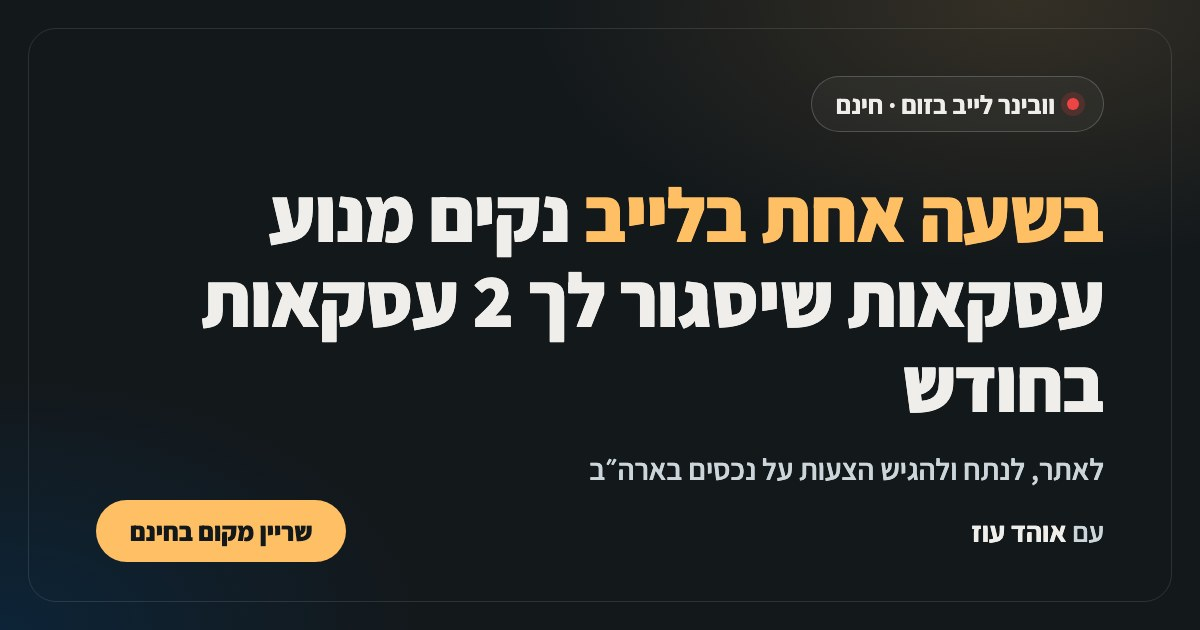
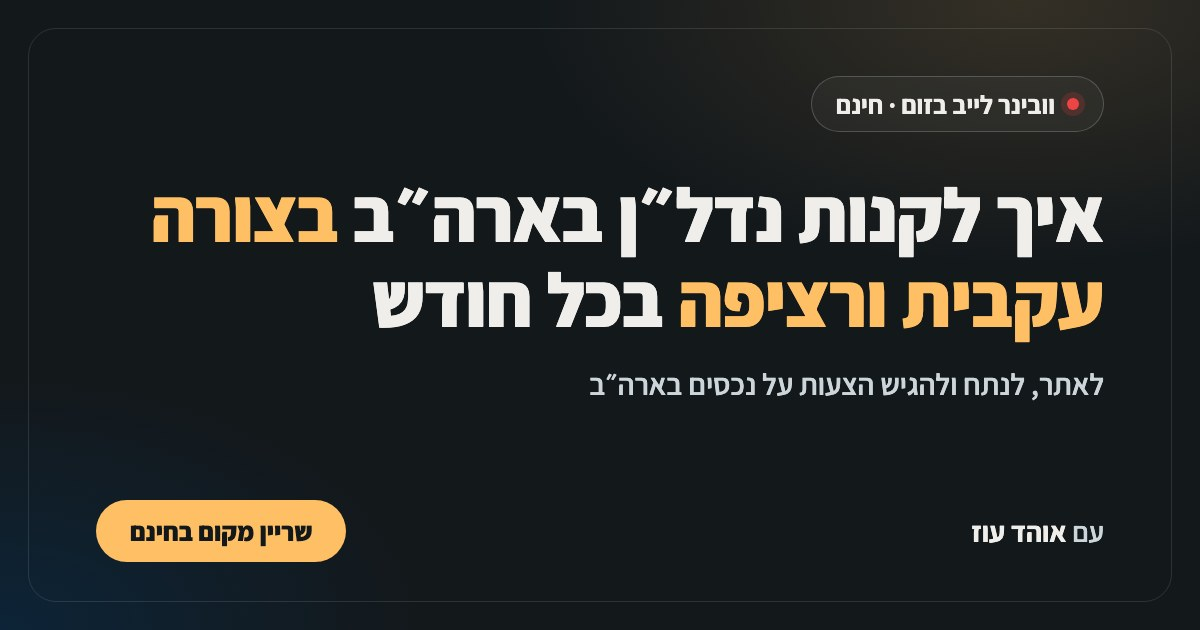
copy: update headline, bullet points and remove free guarantee callout

Changed region(s): [[0.1233, 0.2714, 0.925, 0.5429], [0.4933, 0.573, 0.925, 0.6635], [0.4933, 0.7238, 0.925, 0.7841]]

diff --git a/index.html b/index.html
@@ -20,7 +20,7 @@
     <meta property="og:type" content="website" />
     <meta property="og:locale" content="he_IL" />
     <meta property="og:site_name" content="וובינר מנוע העסקאות ל2 נכסים בחודש · אוהד עוז" />
-    <meta property="og:title" content="וובינר מנוע העסקאות ל2 נכסים בחודש" />
+    <meta property="og:title" content="איך לקנות נדל״ן בארה״ב בצורה עקבית ורציפה בכל חודש" />
     <meta
       property="og:description"
       content="שעה אחת של עבודה מעשית בלייב עם יזם נדל״ן פעיל בארה״ב, יוצאים עם הצעה מוכנה להגשה. מספר המקומות מוגבל."
@@ -31,17 +31,17 @@
     <meta property="og:image:type" content="image/jpeg" />
     <meta property="og:image:width" content="1200" />
     <meta property="og:image:height" content="630" />
-    <meta property="og:image:alt" content="וובינר מנוע העסקאות ל2 נכסים בחודש" />
+    <meta property="og:image:alt" content="איך לקנות נדל״ן בארה״ב בצורה עקבית ורציפה בכל חודש" />
 
     <!-- Twitter/X card -->
     <meta name="twitter:card" content="summary_large_image" />
-    <meta name="twitter:title" content="וובינר מנוע העסקאות ל2 נכסים בחודש" />
+    <meta name="twitter:title" content="איך לקנות נדל״ן בארה״ב בצורה עקבית ורציפה בכל חודש" />
     <meta
       name="twitter:description"
       content="שעה אחת של עבודה מעשית בלייב עם יזם נדל״ן פעיל בארה״ב, יוצאים עם הצעה מוכנה להגשה."
     />
     <meta name="twitter:image" content="__SITE_URL__/images/og-cover.jpg" />
-    <meta name="twitter:image:alt" content="וובינר מנוע העסקאות ל2 נכסים בחודש" />
+    <meta name="twitter:image:alt" content="איך לקנות נדל״ן בארה״ב בצורה עקבית ורציפה בכל חודש" />
 
     <link rel="preconnect" href="https://fonts.googleapis.com" />
     <link rel="preconnect" href="https://fonts.gstatic.com" crossorigin />
@@ -49,7 +49,7 @@
       href="https://fonts.googleapis.com/css2?family=Assistant:wght@300;400;600;700;800&display=swap"
       rel="stylesheet"
     />
-    <title>וובינר מנוע העסקאות ל2 נכסים בחודש</title>
+    <title>איך לקנות נדל״ן בארה״ב בצורה עקבית ורציפה בכל חודש · וובינר חינם</title>
   </head>
   <body>
     <div id="root"></div>

diff --git a/src/components/RegistrationSection.tsx b/src/components/RegistrationSection.tsx
@@ -1,5 +1,5 @@
 import { useState, type FormEvent } from "react";
-import { Check, ShieldCheck, AlertCircle, CalendarDays } from "lucide-react";
+import { Check, AlertCircle, CalendarDays } from "lucide-react";
 import CtaButton from "./ui/CtaButton";
 import WhatsAppIcon from "./ui/WhatsAppIcon";
 import { SITE } from "../lib/site";
@@ -105,26 +105,6 @@ export default function RegistrationSection() {
   return (
     <section id="register" className="scroll-mt-6 px-5 py-16 md:py-24" aria-labelledby="register-heading">
       <div className="mx-auto max-w-2xl space-y-6">
-        {/* Trust box - free, no commitment */}
-        <div className="rounded-2xl border border-drift/15 bg-ateneo/25 p-7 sm:p-9">
-          <div className="flex flex-col gap-5 sm:flex-row sm:items-start sm:gap-7">
-            <ShieldCheck
-              className="mx-auto h-11 w-11 shrink-0 text-gold sm:mx-0"
-              strokeWidth={1.6}
-              aria-hidden="true"
-            />
-            <div className="text-center sm:text-right">
-              <h2 className="text-2xl font-extrabold tracking-tight text-cloud sm:text-3xl">
-                100% חינם, בלי התחייבות
-              </h2>
-              <p className="mt-3 max-w-2xl text-xl leading-relaxed text-cloud/85">
-                ההשתתפות בוובינר ללא עלות וללא כרטיס אשראי. ממלאים פרטים, מקבלים
-                את הקישור לזום ומגיעים ללמוד.
-              </p>
-            </div>
-          </div>
-        </div>
-
         <figure className="overflow-hidden rounded-2xl border border-gold/30 bg-cloud/[0.04] p-4 shadow-card sm:p-6">
           <figcaption className="mb-4 text-center">
             <p className="text-sm font-bold text-gold">בוגר K2 מספר</p>

diff --git a/src/components/ValueSection.tsx b/src/components/ValueSection.tsx
@@ -4,10 +4,10 @@ import CtaButton from "./ui/CtaButton";
 import { SITE, scrollToRegister } from "../lib/site";
 
 const outcomes = [
-  "תדע איך ליצור קשר עם בעלי מקצוע שישלחו לך עסקאות טובות בכל חודש.",
-  "תנתח עסקה בפחות מ5 דקות, ותציע לפחות 5 הצעות נכונות ביום",
-  "תחזיק במערכת עבודה מסודרת שמייצרת ומגישה הצעות מחיר באופן עקבי בכל שבוע",
-  "תרכוש מהר את האמון של הסוכנים ובעלי המקצוע כך שירצו לעבוד איתך",
+  "איך ליצור קשר עם בעלי מקצוע שישלחו לך עסקאות טובות בכל חודש.",
+  "לנתח עסקה בפחות מ-5 דקות, ותציע לפחות 5 הצעות נכונות ביום",
+  "מערכת עבודה מסודרת שמייצרת הצעות מחיר באופן עקבי בכל שבוע",
+  "תרכוש את האמון של הסוכנים ובעלי המקצוע כך שירצו לעבוד איתך",
 ];
 
 const details = [

diff --git a/src/components/HeroSection.tsx b/src/components/HeroSection.tsx
@@ -13,6 +13,8 @@ const item = {
   show: { opacity: 1, y: 0, transition: { duration: 0.6, ease: [0.22, 1, 0.36, 1] } },
 };
 
+const [headlineBefore, headlineAfter] = SITE.headline.split(SITE.headlineAccent);
+
 export default function HeroSection() {
   return (
     <section
@@ -43,8 +45,9 @@ export default function HeroSection() {
           id="hero-heading"
           className="mx-auto mt-7 w-full max-w-5xl text-center font-extrabold leading-[1.15] sm:leading-[1.1] text-balance tracking-tight text-cloud text-4xl sm:text-5xl lg:text-6xl"
         >
-          <span className="text-gold">בשעה אחת בלייב</span> נקים מנוע עסקאות שיסגור
-          לך 2 עסקאות בחודש
+          {headlineBefore}
+          <span className="text-gold">{SITE.headlineAccent}</span>
+          {headlineAfter}
         </motion.h1>
 
         {/* Subheadline */}

diff --git a/src/lib/site.ts b/src/lib/site.ts
@@ -2,6 +2,10 @@
 // Swap the placeholders below with the real event details before launch.
 
 export const SITE = {
+  // Main headline (hero, <title>, og/twitter tags and og-cover.jpg mirror it).
+  // headlineAccent is the part of the headline rendered in gold.
+  headline: "איך לקנות נדל״ן בארה״ב בצורה עקבית ורציפה בכל חודש",
+  headlineAccent: "בצורה עקבית ורציפה",
   // One live session: Tuesday 13 October 2026, 18:00-19:00 Israel time.
   eventDate: "13 באוקטובר",
   eventDay: "יום שלישי",
